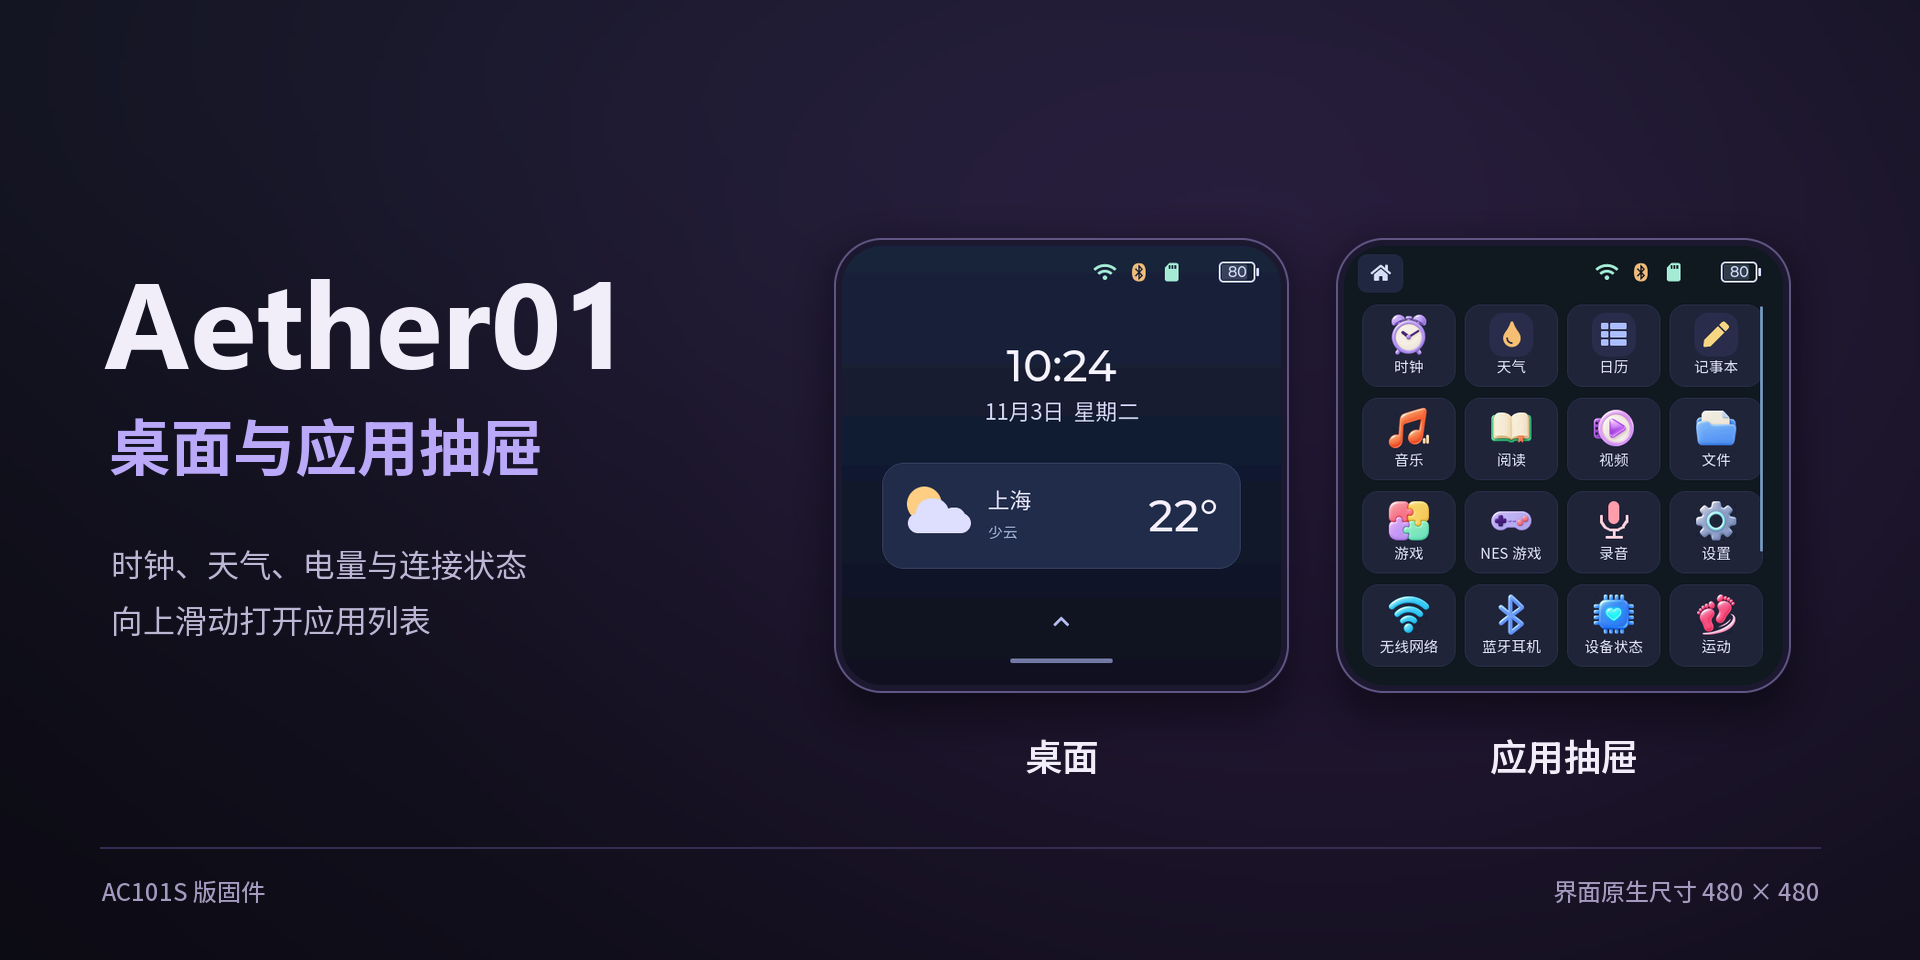
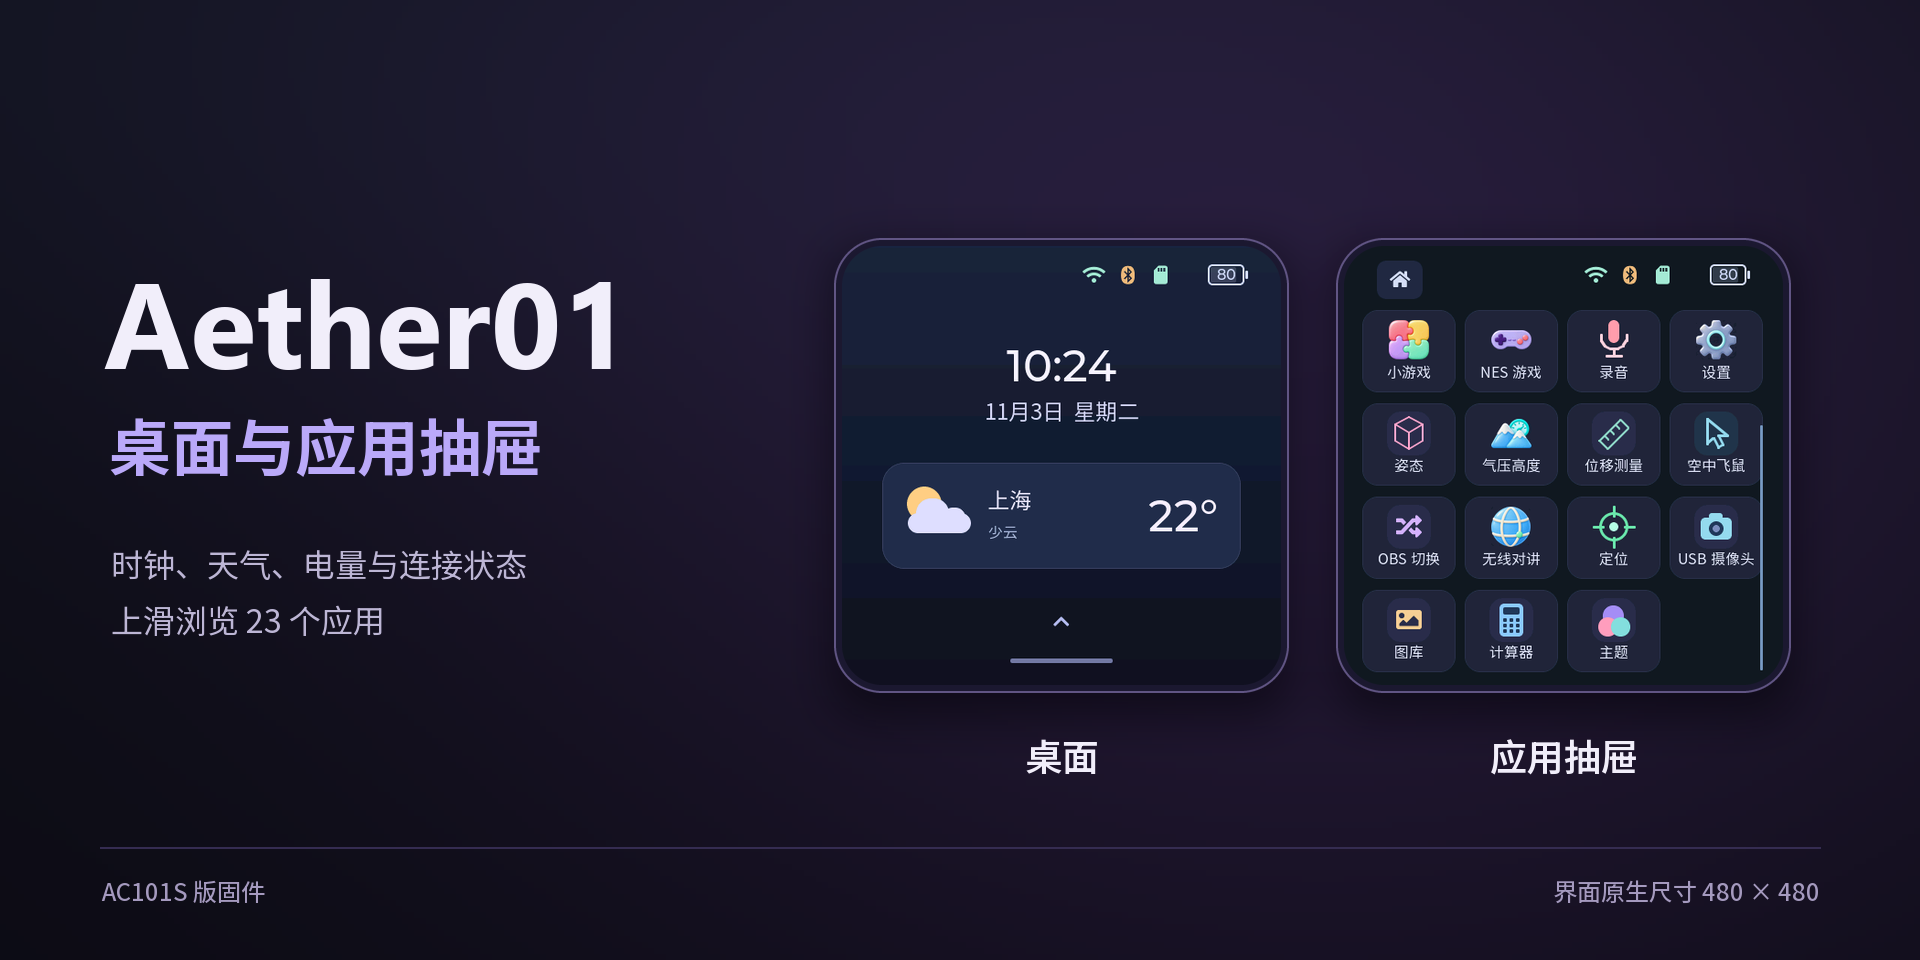
Refresh AC101S screenshots and release overview

Changed region(s): [[0.6875, 0.25, 0.9375, 0.7188], [0.0625, 0.625, 0.2188, 0.6875], [0.5625, 0.25, 0.6562, 0.3125]]

diff --git a/README.md b/README.md
@@ -10,6 +10,10 @@
 
 ![以太01的日常应用](docs/images/02-daily-apps.png)
 
+![计算器的标准、科学与进制模式](docs/images/07-calculator-modes.png)
+
+![主题壁纸、秒表与倒计时](docs/images/08-theme-clock.png)
+
 ![放大的离线拼音键盘、TF 卡与 USB 文件浏览、长按文件菜单](docs/images/06-keyboard-files.png)
 
 ![2048、推箱子、贪吃蛇和跳一跳](docs/images/03-built-in-games.png)
@@ -17,7 +21,7 @@
 <details>
 <summary>实用工具与连接界面</summary>
 
-![文件操作、运动姿态、短程位移与卫星定位](docs/images/04-device-tools.png)
+![姿态与水平仪的平放、倾斜状态](docs/images/04-device-tools.png)
 
 ![空中飞鼠、OBS 切换台与 USB 传输](docs/images/05-connectivity.png)
 
@@ -40,13 +44,17 @@
 - 无线功能包括 Wi-Fi、蓝牙音频与键鼠、空中飞鼠及电脑快捷键、可改名的 OBS 场景和 ESP-NOW 按键对讲。
 - 按电源键或超时息屏时，前台应用暂停，正在播放的音乐继续。再次按电源键恢复原页面。
 - 桌面显示时钟、天气和设备状态，上滑打开应用列表。从应用返回列表时会恢复滚动位置，列表左上角的 Home 或长按实体用户键 2 秒可回桌面。
-- 日常工具包括闹钟、日历、记事本和天气。离线拼音提供中文输入和候选词选择。接入 USB 键盘时自动收起软键盘。[扩展词库安装说明](docs/development/pinyin-extension.md)
-- 文件浏览支持按名称查找，长按可查看详情、复制、移动或删除。图库直接汇总可识别的图片。传感器工具提供气压、姿态和短程位移估算，空中鼠标的静置校准可保存至 NVS。
+- 时钟包含闹钟、可记录分段的秒表和带提示音的倒计时。计算器可切换标准、科学和进制模式，支持外接键盘。日历、记事本和天气也可从应用列表打开。
+- 姿态与双轴水平仪共享归零基准。传感器工具还提供气压、短程位移估算和可保存至 NVS 的空中飞鼠静置校准。
+- 主题应用提供六套系统配色。JPEG 和 BMP 壁纸等比缩放并保存到独立 Flash 分区，拔出 TF 卡后仍可显示。
+- 文件浏览支持按名称查找，长按可查看详情、复制、移动或删除。图库直接汇总可识别的图片。离线拼音支持中文输入和候选词选择，接入 USB 键盘时自动收起软键盘。[扩展词库安装说明](docs/development/pinyin-extension.md)
 - 内置 2048、推箱子、贪吃蛇和跳一跳。2048 可切换滑动或倾斜。推箱子和贪吃蛇可点游戏区域的四个方向，贪吃蛇也支持倾斜转向。
 
 - **卫星定位**可接 VG7669T160N0MA，显示真实卫星天空图、信号强度、经纬度/海拔/速度与PPS。开启时优先验证并使用现有USB输入；仅电池供电时才申请免CC OTG的5V输出。离页停止，具体接线及注意事项见[定位功能说明](docs/development/gps.zh_CN.md)。
 
 ## 构建
+
+已安装旧版的 AC101S 设备可按[固件升级说明](docs/development/ac101s-firmware-upgrade.md)保留设置，并在启用 Flash 壁纸前检查分区布局。
 
 激活支持 `esp32s31` 目标的 ESP-IDF 6.1 环境后，在本仓库目录运行以下命令。组件管理器按 `dependencies.lock` 恢复依赖。
 

diff --git a/README.en.md b/README.en.md
@@ -10,21 +10,36 @@ This standalone firmware demo targets the AC101S edition of Aether01, a handheld
 
 ![Everyday apps on Aether01](docs/images/02-daily-apps.png)
 
+![Standard, scientific, and programmer calculator modes](docs/images/07-calculator-modes.png)
+
+![Themes and wallpapers, stopwatch, and countdown](docs/images/08-theme-clock.png)
+
 ![Enlarged offline Pinyin keyboard, TF and USB file browsing, and long-press file actions](docs/images/06-keyboard-files.png)
 
 ![2048, Sokoban, Snake, and platform jumping](docs/images/03-built-in-games.png)
+
+<details>
+<summary>Motion tools</summary>
+
+![Orientation and spirit level in flat and tilted positions](docs/images/04-device-tools.png)
+
+</details>
 
 The 480 × 480 previews show the LVGL interface with demo content.
 
 Swipe up from the desktop to open the app drawer. Returning to the drawer restores its scroll position. The drawer's Home button or a two-second hold of the physical user button opens the desktop.
 
-The firmware includes music playback with a live five-band EQ, video, recording, a TXT reader, NES emulation, USB OTG, Wi-Fi, Bluetooth controls, and ESP-NOW push-to-talk. Everyday tools include alarms, notes, a calendar, and weather. 2048 supports swipe and tilt controls. Sokoban and Snake respond to directional touch regions, and Snake also supports tilt.
+The firmware includes music playback with a live five-band EQ, video, recording, a TXT reader, NES emulation, USB OTG, Wi-Fi, Bluetooth controls, and ESP-NOW push-to-talk. The clock has alarms, a lap stopwatch, and an audible countdown. The calculator has standard, scientific, and programmer modes. Attitude and the two-axis spirit level share the same zero reference. Themes offer six colour palettes and store proportionally resized JPEG or BMP wallpapers in internal flash.
+
+2048 supports swipe and tilt controls. Sokoban and Snake respond to directional touch regions, and Snake also supports tilt.
 
 The power button and screen timeout pause the foreground app while music keeps playing. Press the power button to resume. Air Mouse includes common computer shortcuts, and OBS scene labels can be renamed.
 
 Music playback supports synchronized LRC lyrics, previews the target time while scrubbing, and remembers playback position. The recorder shows a live waveform and has its own recording list. The offline Pinyin keyboard supports Chinese text entry with word candidates and an optional vocabulary extension. Long-press a file to see its details, copy it, move it, or delete it.
 
 Build from this checkout using an ESP-IDF 6.1 environment with ESP32-S31 support.
+
+See the [AC101S firmware upgrade guide](docs/development/ac101s-firmware-upgrade.md) for preserving settings and checking the wallpaper partition.
 
 ```sh
 idf.py --preview set-target esp32s31
